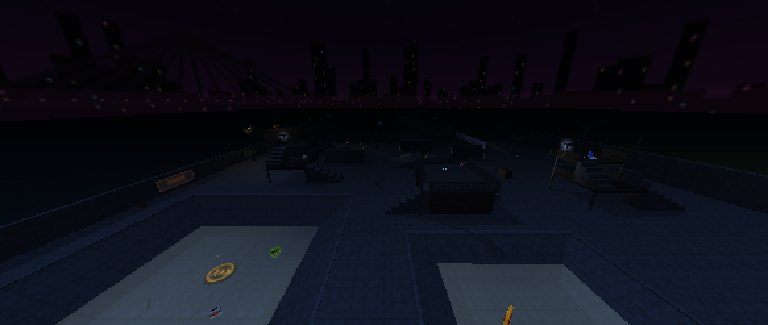
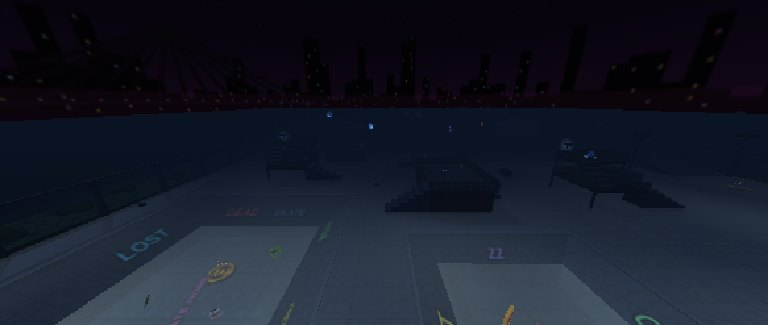
Skatenight: mucha mas niebla y estilo del render (graffitis, vallas, reflectores)
- Niebla azulada mas densa (fogD .042) y una capa de bruma baja; bruma de los bowls mas fuerte.
- Nuevo deco 'graf' (atlas, una sola malla): tags de colores en bowls, pirámides, muros y piso.
- Vallas de alambre al norte y sur (se ve el rio y la calle), reflectores de 4 cabezales en el perimetro,
  palets, rocas y juncos afuera. Se sacan los murales de concreto.

Claude-Session: https://claude.ai/code/session_01WFXnya9Taj999aui3Y62oH

diff --git a/public/game.js b/public/game.js
@@ -1293,11 +1293,18 @@ function buildSkatenight() {
   // baranda física de 1 m (se puede saltar, no se atraviesa); si es un tramo corto en x o en z se le da grosor solo
   const bar = (x0, z0, x1, z1, y) => add(Math.min(x0, x1), y, Math.min(z0, z1), Math.max(x0, x1) + (x0 === x1 ? .1 : 0), y + 1, Math.max(z0, z1) + (z0 === z1 ? .1 : 0), 'rail');
   const graf = (x, y, z, w, h, txt, fg, bg, ry) => deco.push({ t: 'cartel', x, y, z, w, h, txt, fg, bg: bg || '#1d1d22', ry: ry || 0 });
-  // reflector apagado (poste con cabezal negro) o encendido (cabezal con luz + brillo)
-  const poste = (x, z, on) => {
-    add(x - .12, 0, z - .12, x + .12, 7, z + .12, 'metal'); add(x - .5, 7, z - .25, x + .5, 7.5, z + .25, 'black', { nc: 1 });
-    if (on) { add(x - .4, 6.85, z - .2, x + .4, 7, z + .2, 'light', { nc: 1 }); deco.push({ t: 'glow', x, y: 6.8, z, c: 0xffc070 }); }
+  // reflector de estadio (4 cabezales): apagado casi siempre; y0 = altura del piso donde apoya
+  const poste = (x, z, on, y0) => {
+    y0 = y0 || 0; add(x - .12, y0, z - .12, x + .12, y0 + 6.8, z + .12, 'metal'); add(x - .95, y0 + 6.8, z - .1, x + .95, y0 + 6.95, z + .1, 'black', { nc: 1 });
+    for (const dx of [-.66, -.22, .22, .66]) { add(x + dx - .17, y0 + 6.95, z - .22, x + dx + .17, y0 + 7.4, z + .22, 'black', { nc: 1 }); if (on) add(x + dx - .13, y0 + 6.9, z - .16, x + dx + .13, y0 + 6.95, z + .16, 'light', { nc: 1 }); }
+    if (on) deco.push({ t: 'glow', x, y: y0 + 6.7, z, c: 0xffc070 });
   };
+  // graffitis (deco 'graf'): sobre rampas, piso y muros; en colores de aerosol, se ven bien solo con la linterna
+  const NEON = ['#ff3fd2', '#2be6ff', '#ffe03a', '#5dff7a', '#ff7a2a', '#b46cff', '#ff4a5a', '#4aa0ff']; let tn = 0;
+  const tag = (x, y, z, w, h, txt, rx, ry) => deco.push({ t: 'graf', x, y, z, w, h, txt, fg: NEON[(tn++) % NEON.length], rx, ry });
+  const flat = (x, z, y, w, h, txt, ry) => tag(x, y + .03, z, w, h, txt, -Math.PI / 2, ry || 0);                 // en el piso
+  const wallTag = (x, y, z, w, h, txt, ry) => tag(x, y, z, w, h, txt, 0, ry);                                    // en un muro vertical (ry: hacia dónde mira)
+  const slope = (cx, cy, cz, ry, alpha, w, h, txt) => { const hx = Math.sin(ry), hz = Math.cos(ry), sa = Math.sin(alpha), ca = Math.cos(alpha); tag(cx + hx * sa * .04, cy + ca * .04, cz + hz * sa * .04, w, h, txt, alpha - Math.PI / 2, ry); };   // sobre una rampa que mira hacia ry
   // palmera con tronco sólido (el tronco es invisible, la copa la dibuja la decoración)
   const palma = (x, z, h) => { deco.push({ t: 'palm', x, y: 0, z, h }); add(x - .25, 0, z - .25, x + .25, 4, z + .25, 'clip'); };
   // coronamiento (borde liso) de la boca de un bowl
@@ -1340,15 +1347,15 @@ function buildSkatenight() {
   ramp(-52, -4, -48, 12, -2, -2, 0, 'x', -1, 'concrete'); ramp(-38, -4, -34, 12, -2, -2, 0, 'x', 1, 'concrete');
   ramp(-52, -4, -34, 0, -2, -2, 0, 'z', -1, 'concrete'); ramp(-52, 8, -34, 12, -2, -2, 0, 'z', 1, 'concrete');
   coping(-52, -4, -34, 12);
-  deco.push({ t: 'bruma', x0: -56, x1: 56, z0: -36, z1: 52, y: .8, o: .16, dir: 1 }, { t: 'bruma', x0: -56, x1: 56, z0: -36, z1: 52, y: 3.4, o: .1, dir: -1 });
-  deco.push({ t: 'bruma', x0: -52, x1: -26, z0: -32, z1: -10, y: -2.3, o: .28, dir: 1 }, { t: 'bruma', x0: -52, x1: -34, z0: -4, z1: 12, y: -1.3, o: .26, dir: -1 });
+  deco.push({ t: 'bruma', x0: -56, x1: 56, z0: -36, z1: 52, y: .35, o: .3, dir: 1 });   // una sola capa baja (a la altura de las rodillas): más capas se ven como franjas
+  deco.push({ t: 'bruma', x0: -52, x1: -26, z0: -32, z1: -10, y: -2.3, o: .5, dir: 1 }, { t: 'bruma', x0: -52, x1: -34, z0: -4, z1: 12, y: -1.3, o: .46, dir: -1 });
 
   /* ---- límites: valla al oeste y al este, mural al sur y al norte-oeste, río al norte; todo cerrado por arriba y por los costados ---- */
   add(-56, 0, -36, -55.8, 4.2, 52, 'fence'); add(55.8, 0, -32, 56, 4.2, 52, 'fence');
   for (let z = -36; z <= 52; z += 6) { add(-56.1, 0, z, -55.8, 4.4, z + .3, 'metal'); if (z >= -32) add(55.8, 0, z, 56.1, 4.4, z + .3, 'metal'); }
   add(-56.1, 4.2, -36, -55.8, 4.4, 52, 'metal'); add(55.8, 4.2, -32, 56.1, 4.4, 52, 'metal');
-  add(-55.8, 0, 51, 55.8, 4, 52, 'concrete');                                    // mural sur
-  add(-55.8, 0, -36.5, -2, 2.6, -36, 'concrete');                                  // mural norte (del lado del río)
+  add(-55.8, 0, 51.7, 55.8, 4.2, 51.9, 'fence'); add(-55.8, 4.2, 51.6, 55.8, 4.4, 52, 'metal'); add(-55.8, 0, -36.2, -2, 4.2, -36, 'fence'); add(-55.8, 4.2, -36.3, -2, 4.4, -35.9, 'metal');   // vallas de alambre: al norte se ve el río, al sur la calle
+  for (let x = -55.8; x <= 55; x += 6) add(x, 0, 51.5, x + .3, 4.4, 52.1, 'metal'); for (let x = -55.8; x <= -2; x += 6) add(x, 0, -36.4, x + .3, 4.4, -35.8, 'metal');
   add(-60, -8, -44, -55.8, 60, 58, 'clip'); add(55.8, -8, -44, 60, 60, 58, 'clip'); add(-60, -8, -44, 60, 60, -36.2, 'clip');
   add(-60, -8, 52, 60, 60, 58, 'clip'); add(-60, 24, -44, 60, 60, 58, 'clip');     // techo del mapa: inalcanzable ni con rocket jump
   lava.push({ min: [-420, -4, -260], max: [420, 0, -36.6], water: true, dps: 0 });   // el Paraná, al otro lado del muro: solo se ve
@@ -1412,13 +1419,26 @@ function buildSkatenight() {
   add(-31.2, 2.7, -1.2, -21.8, 3, 6.2, 'roof'); stairs(-31, -6, -29, -1, 0, .5, 6, 'z', 1, 'concrete');
   bar(-29, -1.2, -21.8, -1.2, 3); bar(-31.2, -1.2, -31.2, 6.2, 3); bar(-31.2, 6.2, -21.8, 6.2, 3); bar(-21.8, -1.2, -21.8, 6.2, 3);
   deco.push({ t: 'cartel', x: -26.5, y: 2.5, z: -1.03, w: 3.2, h: .5, txt: 'KIOSCO 24 HS', bg: '#2a1c14', fg: '#a8844a', ry: Math.PI });
-  // murales (pintura sobre el muro, carteles apagados)
-  graf(-40, 1.2, 50.98, 6, 1.6, 'OXIDE', '#7a4a9a', '#1d1d22', Math.PI); graf(-14, 1.2, 50.98, 5, 1.6, 'SKATE', '#3a8a6a', '#1d1d22', Math.PI);
-  graf(12, 1.2, 50.98, 6, 1.6, 'LOST', '#9a7a3a', '#1d1d22', Math.PI); graf(42, 1.2, 50.98, 5, 1.6, 'CRAZE', '#9a3a5a', '#1d1d22', Math.PI);
-  graf(-46, 1.3, -35.98, 6, 1.6, 'FREE SKATE', '#4a7aa0', '#1d1d22', 0); graf(-24, 1.3, -35.98, 5, 1.6, 'OXIDE', '#a0502a', '#1d1d22', 0);
-  graf(-8, 1.3, -35.98, 3.4, 1.6, '720', '#8a8a3a', '#1d1d22', 0);
+  /* ---- graffitis: bowls, pirámides, muros y piso ---- */
+  const A1 = Math.atan2(3, 5), A2 = Math.atan2(2, 4), P = Math.PI;
+  for (const [x, txt] of [[-44, 'OXIDE'], [-34, 'LOST']]) slope(x, -1.5, -29.5, 0, A1, 4.6, 2.4, txt);
+  for (const [x, txt] of [[-42, 'FREE SKATE'], [-32, 'RISE']]) slope(x, -1.5, -12.5, P, A1, 4.6, 2.4, txt);
+  for (const [z, txt] of [[-24, '720'], [-18, 'CRAZE']]) slope(-49.5, -1.5, z, P / 2, A1, 4.6, 2.4, txt);
+  for (const [z, txt] of [[-24, 'DEAD'], [-18, 'SKATE']]) slope(-28.5, -1.5, z, -P / 2, A1, 4.6, 2.4, txt);
+  flat(-39, -21, -3, 7, 3.2, 'CKATE HOME', .3); flat(-45, -28, -3, 4, 2, 'XX', -.4);
+  slope(-43, -1, -2, 0, A2, 4.4, 2.2, 'LOST'); slope(-43, -1, 10, P, A2, 4.4, 2.2, 'OXIDE'); slope(-50, -1, 4, P / 2, A2, 4.4, 2.2, 'NOCHE'); slope(-36, -1, 4, -P / 2, A2, 3.6, 2, 'ZZ');
+  flat(-43, 3.5, -2, 5.5, 2.6, 'SKATE DIE', -.5);
+  slope(-12, .75, -2.5, P, Math.atan2(1.5, 4), 3.6, 1.6, 'RIDE'); slope(14, 1.2, -3.5, P, Math.atan2(2.4, 5), 5, 2.4, 'OXIDE'); slope(14, 1.2, 7.5, 0, Math.atan2(2.4, 5), 5, 2.4, 'LOST');
+  flat(-14, -26, 0, 6, 3, 'OXIDE', .2); flat(20, -14, 0, 5, 2.5, 'LOST', -.3); flat(38, 22, 0, 5, 2.5, 'RISE', .6); flat(-10, 40, 0, 6, 3, 'SKATE', 0); flat(-40, 30, 0, 5, 2.5, '720', .9); flat(46, 46, 0, 5, 2.5, 'CRAZE', -.5); flat(0, 6, 0, 5, 2, 'NO DIE', 1.2);
+  wallTag(-11.58, 1.5, -14, 5, 2, 'FREE SKATE', P / 2); wallTag(26, 1.5, -8.58, 5, 2, 'RISE', 0); wallTag(40.98, 1.5, 1, 5, 2, 'LOST', -P / 2); wallTag(-22, 1.5, 27.98, 5, 2, 'CRAZE', P);
+  wallTag(14, 1.5, 18.42, 5, 2, 'DEAD', 0); wallTag(-8.02, 1.5, 12.5, 5, 2, '720', -P / 2); wallTag(-1.58, 1.5, 2, 5, 2, 'OXIDE', P / 2);
+  // basura y escombros afuera de las vallas (solo se ven): palets y rocas
+  for (const [x, z] of [[-60, -20], [-61, 6], [-59, 30], [-26, 56], [14, 57], [44, 56], [60, 20], [61, -4]]) { add(x, 0, z, x + 1.4, .14, z + 1.1, 'wood', { nc: 1 }); add(x + .1, .14, z + .1, x + 1.3, .28, z + 1, 'wood', { nc: 1 }); add(x + 1.9, 0, z + .4, x + 2.6, .5, z + 1.1, 'rock', { nc: 1 }); }
+  // orilla del río al norte: banco de pasto con juncos
+  add(-58, -1, -44, -2, .3, -37.2, 'grass', { nc: 1 }); for (let x = -56; x <= -4; x += 5) deco.push({ t: 'bush', x, y: .3, z: -39.5 + (x % 3), r: .8 });
   // reflectores: casi todos apagados
-  for (const [x, z, on] of [[-54, -22, 0], [-50, 22, 1], [-10, -34, 1], [30, -18, 0], [52, -10, 0], [52, 34, 1], [-20, 34, 0], [20, 12, 1], [0, -8, 0], [36, 18, 0], [-31, -2, 0]]) poste(x, z, on);
+  for (const [x, z, on] of [[-54.2, -26, 0], [-54.2, -6, 0], [-54.2, 14, 0], [-54.2, 28, 1], [-54.2, 46, 0], [-40, 50.6, 0], [-20, 50.6, 0], [2, 50.6, 1], [24, 50.6, 0], [46, 50.6, 0], [54.6, -14, 0], [54.6, 6, 1], [54.6, 34, 0], [54.6, 46, 0], [0, -8, 0], [36, 18, 0], [-20, 34, 0], [30, -18, 0]]) poste(x, z, on);
+  for (const [x, on] of [[8, 0], [28, 1], [48, 0]]) poste(x, -35.5, on, 5);   // sobre el pasillo de la tribuna
 
   /* ---- portales: uno en el rincón sur-oeste y otro arriba de la tribuna ---- */
   teles.push({ x: -46, y: 0, z: 34, r: 1, to: [46.5, 5, -33.7], yaw: face(46.5, -33.7, 0, 0), color: 'yellow' });
@@ -1452,7 +1472,7 @@ function buildSkatenight() {
    [-40, -3, -20], [-34, -3, -24], [-43, -2, 3], [6, 5, -34], [20, 5, -34], [34, 5, -34], [26, 3, -26.6], [-17, 5, -21], [-25.5, 5, 21], [44.5, 5, 13], [45, 5, -10], [26, 2, 31], [14, 2.4, 2], [-12, 1.5, 2], [42, 2.5, 13], [-20, 2.5, -21], [20, 0, -28], [44, 0, -28], [8, 0, -27], [-26, 0, 3], [-26, 3, 4]]
     .forEach(([x, y, z]) => spawns.push({ x, y, z, yaw: face(x, z, 0, 0) }));
   /* ---- luces: unos pocos pozos de luz en la oscuridad (la linterna hace el resto) ---- */
-  lights.push({ x: -50, y: 6, z: 22, c: 0xffa860, i: .55, d: 20 }, { x: -10, y: 6, z: -34, c: 0xffa860, i: .55, d: 20 }, { x: 52, y: 6, z: 34, c: 0xffa860, i: .55, d: 20 }, { x: 20, y: 6, z: 12, c: 0xffa860, i: .55, d: 20 },
+  lights.push({ x: -53, y: 7, z: 28, c: 0xffa860, i: .6, d: 24 }, { x: 53.6, y: 7, z: 6, c: 0xffa860, i: .6, d: 24 }, { x: 2, y: 7, z: 49.6, c: 0xffa860, i: .6, d: 24 }, { x: 28, y: 12, z: -34.6, c: 0xffa860, i: .6, d: 24 },
     { x: -16.5, y: 6.3, z: -23.5, c: 0x6aa0ff, i: .4, d: 14 }, { x: -24.5, y: 6.3, z: 18.5, c: 0x6aa0ff, i: .4, d: 14 }, { x: 45.5, y: 6.3, z: 10.5, c: 0x6aa0ff, i: .4, d: 14 },
     { x: -46, y: 3, z: 34, c: 0xffc840, i: .9, d: 13 }, { x: 51, y: 8, z: -33.8, c: 0x4aa0ff, i: .9, d: 13 },
     { x: -24, y: 3, z: 46, c: 0x4a8a6a, i: .35, d: 14 }, { x: 36, y: 6, z: 48, c: 0xffa860, i: .5, d: 18 }, { x: -39, y: -1, z: -21, c: 0x4a8a6a, i: .35, d: 14 }, { x: -43, y: 0, z: 4, c: 0x8a4a8a, i: .35, d: 12 });
@@ -1470,7 +1490,7 @@ function buildSkatenight() {
   }
   for (const b of B) if (b.nc && b.mat !== 'clip') for (let k = 0; k < 3; k++) { b.min[k] -= .012; b.max[k] += .012; }   // evita caras coplanares (z-fighting)
   return finish({ id: 'skatenight', name: 'Skatenight', bounds: { x0: -56, x1: 56, z0: -40, z1: 54 }, deco, modos: ['arena', 'gungame'],
-    theme: { sky: 'night', tex: 'ut', noche: true, skyDim: .3, fog: 0x010204, fogD: .031, amb: 0x1a2440, ambI: .09, hemi: [0x20345c, 0x04060a, .08], sun: true, sunC: 0x5a78c0, sunI: .1, sunPos: [34, 60, -46], shadowRes: 4096, shBias: -.0004, shNormal: .08 } });
+    theme: { sky: 'night', tex: 'ut', noche: true, skyDim: .3, fog: 0x0b1424, fogD: .042, amb: 0x1a2440, ambI: .09, hemi: [0x20345c, 0x04060a, .08], sun: true, sunC: 0x5a78c0, sunI: .14, sunPos: [34, 60, -46], shadowRes: 4096, shBias: -.0004, shNormal: .08 } });
 }
 MAPDEFS.skatenight = buildSkatenight;
 const MAPS = {};

diff --git a/src/nucleo/02-mapas/7-skatenight.js b/src/nucleo/02-mapas/7-skatenight.js
@@ -13,11 +13,18 @@ function buildSkatenight() {
   // baranda física de 1 m (se puede saltar, no se atraviesa); si es un tramo corto en x o en z se le da grosor solo
   const bar = (x0, z0, x1, z1, y) => add(Math.min(x0, x1), y, Math.min(z0, z1), Math.max(x0, x1) + (x0 === x1 ? .1 : 0), y + 1, Math.max(z0, z1) + (z0 === z1 ? .1 : 0), 'rail');
   const graf = (x, y, z, w, h, txt, fg, bg, ry) => deco.push({ t: 'cartel', x, y, z, w, h, txt, fg, bg: bg || '#1d1d22', ry: ry || 0 });
-  // reflector apagado (poste con cabezal negro) o encendido (cabezal con luz + brillo)
-  const poste = (x, z, on) => {
-    add(x - .12, 0, z - .12, x + .12, 7, z + .12, 'metal'); add(x - .5, 7, z - .25, x + .5, 7.5, z + .25, 'black', { nc: 1 });
-    if (on) { add(x - .4, 6.85, z - .2, x + .4, 7, z + .2, 'light', { nc: 1 }); deco.push({ t: 'glow', x, y: 6.8, z, c: 0xffc070 }); }
+  // reflector de estadio (4 cabezales): apagado casi siempre; y0 = altura del piso donde apoya
+  const poste = (x, z, on, y0) => {
+    y0 = y0 || 0; add(x - .12, y0, z - .12, x + .12, y0 + 6.8, z + .12, 'metal'); add(x - .95, y0 + 6.8, z - .1, x + .95, y0 + 6.95, z + .1, 'black', { nc: 1 });
+    for (const dx of [-.66, -.22, .22, .66]) { add(x + dx - .17, y0 + 6.95, z - .22, x + dx + .17, y0 + 7.4, z + .22, 'black', { nc: 1 }); if (on) add(x + dx - .13, y0 + 6.9, z - .16, x + dx + .13, y0 + 6.95, z + .16, 'light', { nc: 1 }); }
+    if (on) deco.push({ t: 'glow', x, y: y0 + 6.7, z, c: 0xffc070 });
   };
+  // graffitis (deco 'graf'): sobre rampas, piso y muros; en colores de aerosol, se ven bien solo con la linterna
+  const NEON = ['#ff3fd2', '#2be6ff', '#ffe03a', '#5dff7a', '#ff7a2a', '#b46cff', '#ff4a5a', '#4aa0ff']; let tn = 0;
+  const tag = (x, y, z, w, h, txt, rx, ry) => deco.push({ t: 'graf', x, y, z, w, h, txt, fg: NEON[(tn++) % NEON.length], rx, ry });
+  const flat = (x, z, y, w, h, txt, ry) => tag(x, y + .03, z, w, h, txt, -Math.PI / 2, ry || 0);                 // en el piso
+  const wallTag = (x, y, z, w, h, txt, ry) => tag(x, y, z, w, h, txt, 0, ry);                                    // en un muro vertical (ry: hacia dónde mira)
+  const slope = (cx, cy, cz, ry, alpha, w, h, txt) => { const hx = Math.sin(ry), hz = Math.cos(ry), sa = Math.sin(alpha), ca = Math.cos(alpha); tag(cx + hx * sa * .04, cy + ca * .04, cz + hz * sa * .04, w, h, txt, alpha - Math.PI / 2, ry); };   // sobre una rampa que mira hacia ry
   // palmera con tronco sólido (el tronco es invisible, la copa la dibuja la decoración)
   const palma = (x, z, h) => { deco.push({ t: 'palm', x, y: 0, z, h }); add(x - .25, 0, z - .25, x + .25, 4, z + .25, 'clip'); };
   // coronamiento (borde liso) de la boca de un bowl
@@ -60,15 +67,15 @@ function buildSkatenight() {
   ramp(-52, -4, -48, 12, -2, -2, 0, 'x', -1, 'concrete'); ramp(-38, -4, -34, 12, -2, -2, 0, 'x', 1, 'concrete');
   ramp(-52, -4, -34, 0, -2, -2, 0, 'z', -1, 'concrete'); ramp(-52, 8, -34, 12, -2, -2, 0, 'z', 1, 'concrete');
   coping(-52, -4, -34, 12);
-  deco.push({ t: 'bruma', x0: -56, x1: 56, z0: -36, z1: 52, y: .8, o: .16, dir: 1 }, { t: 'bruma', x0: -56, x1: 56, z0: -36, z1: 52, y: 3.4, o: .1, dir: -1 });
-  deco.push({ t: 'bruma', x0: -52, x1: -26, z0: -32, z1: -10, y: -2.3, o: .28, dir: 1 }, { t: 'bruma', x0: -52, x1: -34, z0: -4, z1: 12, y: -1.3, o: .26, dir: -1 });
+  deco.push({ t: 'bruma', x0: -56, x1: 56, z0: -36, z1: 52, y: .35, o: .3, dir: 1 });   // una sola capa baja (a la altura de las rodillas): más capas se ven como franjas
+  deco.push({ t: 'bruma', x0: -52, x1: -26, z0: -32, z1: -10, y: -2.3, o: .5, dir: 1 }, { t: 'bruma', x0: -52, x1: -34, z0: -4, z1: 12, y: -1.3, o: .46, dir: -1 });
 
   /* ---- límites: valla al oeste y al este, mural al sur y al norte-oeste, río al norte; todo cerrado por arriba y por los costados ---- */
   add(-56, 0, -36, -55.8, 4.2, 52, 'fence'); add(55.8, 0, -32, 56, 4.2, 52, 'fence');
   for (let z = -36; z <= 52; z += 6) { add(-56.1, 0, z, -55.8, 4.4, z + .3, 'metal'); if (z >= -32) add(55.8, 0, z, 56.1, 4.4, z + .3, 'metal'); }
   add(-56.1, 4.2, -36, -55.8, 4.4, 52, 'metal'); add(55.8, 4.2, -32, 56.1, 4.4, 52, 'metal');
-  add(-55.8, 0, 51, 55.8, 4, 52, 'concrete');                                    // mural sur
-  add(-55.8, 0, -36.5, -2, 2.6, -36, 'concrete');                                  // mural norte (del lado del río)
+  add(-55.8, 0, 51.7, 55.8, 4.2, 51.9, 'fence'); add(-55.8, 4.2, 51.6, 55.8, 4.4, 52, 'metal'); add(-55.8, 0, -36.2, -2, 4.2, -36, 'fence'); add(-55.8, 4.2, -36.3, -2, 4.4, -35.9, 'metal');   // vallas de alambre: al norte se ve el río, al sur la calle
+  for (let x = -55.8; x <= 55; x += 6) add(x, 0, 51.5, x + .3, 4.4, 52.1, 'metal'); for (let x = -55.8; x <= -2; x += 6) add(x, 0, -36.4, x + .3, 4.4, -35.8, 'metal');
   add(-60, -8, -44, -55.8, 60, 58, 'clip'); add(55.8, -8, -44, 60, 60, 58, 'clip'); add(-60, -8, -44, 60, 60, -36.2, 'clip');
   add(-60, -8, 52, 60, 60, 58, 'clip'); add(-60, 24, -44, 60, 60, 58, 'clip');     // techo del mapa: inalcanzable ni con rocket jump
   lava.push({ min: [-420, -4, -260], max: [420, 0, -36.6], water: true, dps: 0 });   // el Paraná, al otro lado del muro: solo se ve
@@ -132,13 +139,26 @@ function buildSkatenight() {
   add(-31.2, 2.7, -1.2, -21.8, 3, 6.2, 'roof'); stairs(-31, -6, -29, -1, 0, .5, 6, 'z', 1, 'concrete');
   bar(-29, -1.2, -21.8, -1.2, 3); bar(-31.2, -1.2, -31.2, 6.2, 3); bar(-31.2, 6.2, -21.8, 6.2, 3); bar(-21.8, -1.2, -21.8, 6.2, 3);
   deco.push({ t: 'cartel', x: -26.5, y: 2.5, z: -1.03, w: 3.2, h: .5, txt: 'KIOSCO 24 HS', bg: '#2a1c14', fg: '#a8844a', ry: Math.PI });
-  // murales (pintura sobre el muro, carteles apagados)
-  graf(-40, 1.2, 50.98, 6, 1.6, 'OXIDE', '#7a4a9a', '#1d1d22', Math.PI); graf(-14, 1.2, 50.98, 5, 1.6, 'SKATE', '#3a8a6a', '#1d1d22', Math.PI);
-  graf(12, 1.2, 50.98, 6, 1.6, 'LOST', '#9a7a3a', '#1d1d22', Math.PI); graf(42, 1.2, 50.98, 5, 1.6, 'CRAZE', '#9a3a5a', '#1d1d22', Math.PI);
-  graf(-46, 1.3, -35.98, 6, 1.6, 'FREE SKATE', '#4a7aa0', '#1d1d22', 0); graf(-24, 1.3, -35.98, 5, 1.6, 'OXIDE', '#a0502a', '#1d1d22', 0);
-  graf(-8, 1.3, -35.98, 3.4, 1.6, '720', '#8a8a3a', '#1d1d22', 0);
+  /* ---- graffitis: bowls, pirámides, muros y piso ---- */
+  const A1 = Math.atan2(3, 5), A2 = Math.atan2(2, 4), P = Math.PI;
+  for (const [x, txt] of [[-44, 'OXIDE'], [-34, 'LOST']]) slope(x, -1.5, -29.5, 0, A1, 4.6, 2.4, txt);
+  for (const [x, txt] of [[-42, 'FREE SKATE'], [-32, 'RISE']]) slope(x, -1.5, -12.5, P, A1, 4.6, 2.4, txt);
+  for (const [z, txt] of [[-24, '720'], [-18, 'CRAZE']]) slope(-49.5, -1.5, z, P / 2, A1, 4.6, 2.4, txt);
+  for (const [z, txt] of [[-24, 'DEAD'], [-18, 'SKATE']]) slope(-28.5, -1.5, z, -P / 2, A1, 4.6, 2.4, txt);
+  flat(-39, -21, -3, 7, 3.2, 'CKATE HOME', .3); flat(-45, -28, -3, 4, 2, 'XX', -.4);
+  slope(-43, -1, -2, 0, A2, 4.4, 2.2, 'LOST'); slope(-43, -1, 10, P, A2, 4.4, 2.2, 'OXIDE'); slope(-50, -1, 4, P / 2, A2, 4.4, 2.2, 'NOCHE'); slope(-36, -1, 4, -P / 2, A2, 3.6, 2, 'ZZ');
+  flat(-43, 3.5, -2, 5.5, 2.6, 'SKATE DIE', -.5);
+  slope(-12, .75, -2.5, P, Math.atan2(1.5, 4), 3.6, 1.6, 'RIDE'); slope(14, 1.2, -3.5, P, Math.atan2(2.4, 5), 5, 2.4, 'OXIDE'); slope(14, 1.2, 7.5, 0, Math.atan2(2.4, 5), 5, 2.4, 'LOST');
+  flat(-14, -26, 0, 6, 3, 'OXIDE', .2); flat(20, -14, 0, 5, 2.5, 'LOST', -.3); flat(38, 22, 0, 5, 2.5, 'RISE', .6); flat(-10, 40, 0, 6, 3, 'SKATE', 0); flat(-40, 30, 0, 5, 2.5, '720', .9); flat(46, 46, 0, 5, 2.5, 'CRAZE', -.5); flat(0, 6, 0, 5, 2, 'NO DIE', 1.2);
+  wallTag(-11.58, 1.5, -14, 5, 2, 'FREE SKATE', P / 2); wallTag(26, 1.5, -8.58, 5, 2, 'RISE', 0); wallTag(40.98, 1.5, 1, 5, 2, 'LOST', -P / 2); wallTag(-22, 1.5, 27.98, 5, 2, 'CRAZE', P);
+  wallTag(14, 1.5, 18.42, 5, 2, 'DEAD', 0); wallTag(-8.02, 1.5, 12.5, 5, 2, '720', -P / 2); wallTag(-1.58, 1.5, 2, 5, 2, 'OXIDE', P / 2);
+  // basura y escombros afuera de las vallas (solo se ven): palets y rocas
+  for (const [x, z] of [[-60, -20], [-61, 6], [-59, 30], [-26, 56], [14, 57], [44, 56], [60, 20], [61, -4]]) { add(x, 0, z, x + 1.4, .14, z + 1.1, 'wood', { nc: 1 }); add(x + .1, .14, z + .1, x + 1.3, .28, z + 1, 'wood', { nc: 1 }); add(x + 1.9, 0, z + .4, x + 2.6, .5, z + 1.1, 'rock', { nc: 1 }); }
+  // orilla del río al norte: banco de pasto con juncos
+  add(-58, -1, -44, -2, .3, -37.2, 'grass', { nc: 1 }); for (let x = -56; x <= -4; x += 5) deco.push({ t: 'bush', x, y: .3, z: -39.5 + (x % 3), r: .8 });
   // reflectores: casi todos apagados
-  for (const [x, z, on] of [[-54, -22, 0], [-50, 22, 1], [-10, -34, 1], [30, -18, 0], [52, -10, 0], [52, 34, 1], [-20, 34, 0], [20, 12, 1], [0, -8, 0], [36, 18, 0], [-31, -2, 0]]) poste(x, z, on);
+  for (const [x, z, on] of [[-54.2, -26, 0], [-54.2, -6, 0], [-54.2, 14, 0], [-54.2, 28, 1], [-54.2, 46, 0], [-40, 50.6, 0], [-20, 50.6, 0], [2, 50.6, 1], [24, 50.6, 0], [46, 50.6, 0], [54.6, -14, 0], [54.6, 6, 1], [54.6, 34, 0], [54.6, 46, 0], [0, -8, 0], [36, 18, 0], [-20, 34, 0], [30, -18, 0]]) poste(x, z, on);
+  for (const [x, on] of [[8, 0], [28, 1], [48, 0]]) poste(x, -35.5, on, 5);   // sobre el pasillo de la tribuna
 
   /* ---- portales: uno en el rincón sur-oeste y otro arriba de la tribuna ---- */
   teles.push({ x: -46, y: 0, z: 34, r: 1, to: [46.5, 5, -33.7], yaw: face(46.5, -33.7, 0, 0), color: 'yellow' });
@@ -172,7 +192,7 @@ function buildSkatenight() {
    [-40, -3, -20], [-34, -3, -24], [-43, -2, 3], [6, 5, -34], [20, 5, -34], [34, 5, -34], [26, 3, -26.6], [-17, 5, -21], [-25.5, 5, 21], [44.5, 5, 13], [45, 5, -10], [26, 2, 31], [14, 2.4, 2], [-12, 1.5, 2], [42, 2.5, 13], [-20, 2.5, -21], [20, 0, -28], [44, 0, -28], [8, 0, -27], [-26, 0, 3], [-26, 3, 4]]
     .forEach(([x, y, z]) => spawns.push({ x, y, z, yaw: face(x, z, 0, 0) }));
   /* ---- luces: unos pocos pozos de luz en la oscuridad (la linterna hace el resto) ---- */
-  lights.push({ x: -50, y: 6, z: 22, c: 0xffa860, i: .55, d: 20 }, { x: -10, y: 6, z: -34, c: 0xffa860, i: .55, d: 20 }, { x: 52, y: 6, z: 34, c: 0xffa860, i: .55, d: 20 }, { x: 20, y: 6, z: 12, c: 0xffa860, i: .55, d: 20 },
+  lights.push({ x: -53, y: 7, z: 28, c: 0xffa860, i: .6, d: 24 }, { x: 53.6, y: 7, z: 6, c: 0xffa860, i: .6, d: 24 }, { x: 2, y: 7, z: 49.6, c: 0xffa860, i: .6, d: 24 }, { x: 28, y: 12, z: -34.6, c: 0xffa860, i: .6, d: 24 },
     { x: -16.5, y: 6.3, z: -23.5, c: 0x6aa0ff, i: .4, d: 14 }, { x: -24.5, y: 6.3, z: 18.5, c: 0x6aa0ff, i: .4, d: 14 }, { x: 45.5, y: 6.3, z: 10.5, c: 0x6aa0ff, i: .4, d: 14 },
     { x: -46, y: 3, z: 34, c: 0xffc840, i: .9, d: 13 }, { x: 51, y: 8, z: -33.8, c: 0x4aa0ff, i: .9, d: 13 },
     { x: -24, y: 3, z: 46, c: 0x4a8a6a, i: .35, d: 14 }, { x: 36, y: 6, z: 48, c: 0xffa860, i: .5, d: 18 }, { x: -39, y: -1, z: -21, c: 0x4a8a6a, i: .35, d: 14 }, { x: -43, y: 0, z: 4, c: 0x8a4a8a, i: .35, d: 12 });
@@ -190,6 +210,6 @@ function buildSkatenight() {
   }
   for (const b of B) if (b.nc && b.mat !== 'clip') for (let k = 0; k < 3; k++) { b.min[k] -= .012; b.max[k] += .012; }   // evita caras coplanares (z-fighting)
   return finish({ id: 'skatenight', name: 'Skatenight', bounds: { x0: -56, x1: 56, z0: -40, z1: 54 }, deco, modos: ['arena', 'gungame'],
-    theme: { sky: 'night', tex: 'ut', noche: true, skyDim: .3, fog: 0x010204, fogD: .031, amb: 0x1a2440, ambI: .09, hemi: [0x20345c, 0x04060a, .08], sun: true, sunC: 0x5a78c0, sunI: .1, sunPos: [34, 60, -46], shadowRes: 4096, shBias: -.0004, shNormal: .08 } });
+    theme: { sky: 'night', tex: 'ut', noche: true, skyDim: .3, fog: 0x0b1424, fogD: .042, amb: 0x1a2440, ambI: .09, hemi: [0x20345c, 0x04060a, .08], sun: true, sunC: 0x5a78c0, sunI: .14, sunPos: [34, 60, -46], shadowRes: 4096, shBias: -.0004, shNormal: .08 } });
 }
 MAPDEFS.skatenight = buildSkatenight;

diff --git a/public/index.html b/public/index.html
@@ -1031,7 +1031,7 @@ function buildDeco(group,list){
   const bake=(g,x,y,z,ry,rx)=>{const o=new THREE.Object3D();o.position.set(x,y,z);o.rotation.set(0,ry||0,0);if(rx)o.rotateX(rx);o.updateMatrix();g.applyMatrix4(o.matrix);return g;};
   const vTr=[],vLf=[],vBu=[],vCo=[],vAv=[];
   portalAnim.length=0;animTex.length=0;
-  const vGl=[],vHz=[],vVn=[];   // brillos de farolas, haces de luz y enredaderas: una sola malla por tipo
+  const vGl=[],vHz=[],vVn=[],vGf=[];   // brillos de farolas, haces de luz y enredaderas: una sola malla por tipo
   for(const d of list){
     if(d.t==='palm'){
       const tg=new THREE.CylinderGeometry(.2,.32,d.h,8);tg.rotateZ(.05);tg.translate(d.x,d.y+d.h/2,d.z);vTr.push(tg);
@@ -1112,6 +1112,8 @@ function buildDeco(group,list){
       for(const [list,m] of [[negro,mat('tr_negro',{color:0x1a1c20,shininess:50})],[acero,mat('tr_acero',{color:0x3a4148,shininess:90})],[laton,mat('tr_laton',{color:0xb58a3c,shininess:110,emissive:0x2a1c08})],[rojo,mat('tr_rojo',{color:0x9a1f18,shininess:30})]]){
         const me=new THREE.Mesh(unir(list),m);me.castShadow=true;me.receiveShadow=true;group.add(me);}
       group.add(new THREE.Mesh(unir(luz),M_('tr_luz',()=>new THREE.MeshBasicMaterial({color:0xfff0c8}))));
+    }else if(d.t==='graf'){
+      vGf.push(d);   // graffiti (tag de aerosol): todos juntos en un atlas, ver abajo
     }else if(d.t==='cartel'){
       // cartel de chapa con letras (estación, andén): d.txt, colores d.bg / d.fg
       const c=cv(512,Math.round(512*d.h/d.w),(g,w,h)=>{
@@ -1179,6 +1181,31 @@ function buildDeco(group,list){
   }
   const volcar=(arr,mat)=>{if(!arr.length)return;const m=new THREE.Mesh(unir(arr),mat);group.add(m);};
   volcar(vTr,trunk);volcar(vLf,leaf);volcar(vBu,bushM);
+  if(vGf.length){
+    // graffitis: cada uno es un cuadrito del atlas; una sola malla y un solo dibujo. Se iluminan con la linterna (con un brillo propio apenas)
+    const cols=8,cw=256,chh=128,rows=Math.ceil(vGf.length/cols);
+    const atlas=cv(cols*cw,rows*chh,(g)=>{vGf.forEach((d,i)=>{
+      const cx=(i%cols)*cw,cy=Math.floor(i/cols)*chh;let sz=84;g.font='italic 900 '+sz+'px "Arial Black",Impact,sans-serif';
+      while(g.measureText(d.txt).width>cw*.9&&sz>16){sz-=4;g.font='italic 900 '+sz+'px "Arial Black",Impact,sans-serif';}
+      g.textAlign='center';g.textBaseline='middle';g.lineJoin='round';g.lineWidth=sz*.18;g.strokeStyle='#08080e';g.strokeText(d.txt,cx+cw/2,cy+chh/2-6);
+      g.fillStyle=d.fg||'#ff3fd2';g.fillText(d.txt,cx+cw/2,cy+chh/2-6);
+      g.fillStyle='rgba(255,255,255,.28)';g.fillText(d.txt,cx+cw/2-2,cy+chh/2-9);
+      g.fillStyle=d.fg||'#ff3fd2';for(let k=0;k<3;k++){const x=cx+cw*(.25+k*.25)+((i*7+k*13)%11)-5;g.fillRect(x,cy+chh/2+sz*.3,3,6+((i*5+k*9)%22));}   // chorreaduras
+    });});
+    const tex=new THREE.CanvasTexture(atlas);
+    const P=[],N=[],U=[],X=[],q=new THREE.Quaternion(),e=new THREE.Euler(0,0,0,'YXZ'),v=new THREE.Vector3();
+    vGf.forEach((d,i)=>{
+      e.set(d.rx||0,d.ry||0,d.rz||0);q.setFromEuler(e);const u0=(i%cols)/cols,v1=1-Math.floor(i/cols)/rows,base=P.length/3;
+      for(const [lx,ly,uu,vv] of [[-1,-1,0,0],[1,-1,1,0],[1,1,1,1],[-1,1,0,1]]){
+        v.set(lx*d.w/2,ly*d.h/2,0).applyQuaternion(q);P.push(d.x+v.x,d.y+v.y,d.z+v.z);
+        v.set(0,0,1).applyQuaternion(q);N.push(v.x,v.y,v.z);U.push(u0+uu/cols,v1-(1-vv)/rows);
+      }
+      X.push(base,base+1,base+2,base,base+2,base+3);
+    });
+    const gg=new THREE.BufferGeometry();gg.setAttribute('position',new THREE.Float32BufferAttribute(P,3));gg.setAttribute('normal',new THREE.Float32BufferAttribute(N,3));gg.setAttribute('uv',new THREE.Float32BufferAttribute(U,2));gg.setIndex(X);
+    const gm=new THREE.Mesh(gg,new THREE.MeshPhongMaterial({map:tex,transparent:true,depthWrite:false,polygonOffset:true,polygonOffsetFactor:-3,polygonOffsetUnits:-3,shininess:0,emissive:0x555555,emissiveMap:tex}));
+    gm.renderOrder=1;gm.frustumCulled=false;group.add(gm);
+  }
   if(vVn.length)volcar(vVn,M_('vid',()=>new THREE.MeshLambertMaterial({map:new THREE.CanvasTexture(cv(32,128,(g,w,h)=>{g.clearRect(0,0,w,h);g.strokeStyle='#1d3a22';g.lineWidth=2;g.beginPath();g.moveTo(16,0);for(let y=0;y<h;y+=8)g.lineTo(16+Math.sin(y*.13)*5,y);g.stroke();
     for(let y=6;y<h;y+=7){const x=16+Math.sin(y*.13)*5,s=y%14?1:-1;g.fillStyle=(y%3)?'#2c5a30':'#1f4426';g.beginPath();g.ellipse(x+s*5,y,5,2.6,s*.5,0,7);g.fill();}})),transparent:true,alphaTest:.4,side:THREE.DoubleSide})));
   if(vGl.length){const pos=[],col=[];for(const q of vGl){const c=new THREE.Color(q.c||0xffd08a);pos.push(q.x,q.y,q.z);col.push(c.r,c.g,c.b);}

diff --git a/src/cliente/js/03-decoracion.js b/src/cliente/js/03-decoracion.js
@@ -24,7 +24,7 @@ function buildDeco(group,list){
   const bake=(g,x,y,z,ry,rx)=>{const o=new THREE.Object3D();o.position.set(x,y,z);o.rotation.set(0,ry||0,0);if(rx)o.rotateX(rx);o.updateMatrix();g.applyMatrix4(o.matrix);return g;};
   const vTr=[],vLf=[],vBu=[],vCo=[],vAv=[];
   portalAnim.length=0;animTex.length=0;
-  const vGl=[],vHz=[],vVn=[];   // brillos de farolas, haces de luz y enredaderas: una sola malla por tipo
+  const vGl=[],vHz=[],vVn=[],vGf=[];   // brillos de farolas, haces de luz y enredaderas: una sola malla por tipo
   for(const d of list){
     if(d.t==='palm'){
       const tg=new THREE.CylinderGeometry(.2,.32,d.h,8);tg.rotateZ(.05);tg.translate(d.x,d.y+d.h/2,d.z);vTr.push(tg);
@@ -105,6 +105,8 @@ function buildDeco(group,list){
       for(const [list,m] of [[negro,mat('tr_negro',{color:0x1a1c20,shininess:50})],[acero,mat('tr_acero',{color:0x3a4148,shininess:90})],[laton,mat('tr_laton',{color:0xb58a3c,shininess:110,emissive:0x2a1c08})],[rojo,mat('tr_rojo',{color:0x9a1f18,shininess:30})]]){
         const me=new THREE.Mesh(unir(list),m);me.castShadow=true;me.receiveShadow=true;group.add(me);}
       group.add(new THREE.Mesh(unir(luz),M_('tr_luz',()=>new THREE.MeshBasicMaterial({color:0xfff0c8}))));
+    }else if(d.t==='graf'){
+      vGf.push(d);   // graffiti (tag de aerosol): todos juntos en un atlas, ver abajo
     }else if(d.t==='cartel'){
       // cartel de chapa con letras (estación, andén): d.txt, colores d.bg / d.fg
       const c=cv(512,Math.round(512*d.h/d.w),(g,w,h)=>{
@@ -172,6 +174,31 @@ function buildDeco(group,list){
   }
   const volcar=(arr,mat)=>{if(!arr.length)return;const m=new THREE.Mesh(unir(arr),mat);group.add(m);};
   volcar(vTr,trunk);volcar(vLf,leaf);volcar(vBu,bushM);
+  if(vGf.length){
+    // graffitis: cada uno es un cuadrito del atlas; una sola malla y un solo dibujo. Se iluminan con la linterna (con un brillo propio apenas)
+    const cols=8,cw=256,chh=128,rows=Math.ceil(vGf.length/cols);
+    const atlas=cv(cols*cw,rows*chh,(g)=>{vGf.forEach((d,i)=>{
+      const cx=(i%cols)*cw,cy=Math.floor(i/cols)*chh;let sz=84;g.font='italic 900 '+sz+'px "Arial Black",Impact,sans-serif';
+      while(g.measureText(d.txt).width>cw*.9&&sz>16){sz-=4;g.font='italic 900 '+sz+'px "Arial Black",Impact,sans-serif';}
+      g.textAlign='center';g.textBaseline='middle';g.lineJoin='round';g.lineWidth=sz*.18;g.strokeStyle='#08080e';g.strokeText(d.txt,cx+cw/2,cy+chh/2-6);
+      g.fillStyle=d.fg||'#ff3fd2';g.fillText(d.txt,cx+cw/2,cy+chh/2-6);
+      g.fillStyle='rgba(255,255,255,.28)';g.fillText(d.txt,cx+cw/2-2,cy+chh/2-9);
+      g.fillStyle=d.fg||'#ff3fd2';for(let k=0;k<3;k++){const x=cx+cw*(.25+k*.25)+((i*7+k*13)%11)-5;g.fillRect(x,cy+chh/2+sz*.3,3,6+((i*5+k*9)%22));}   // chorreaduras
+    });});
+    const tex=new THREE.CanvasTexture(atlas);
+    const P=[],N=[],U=[],X=[],q=new THREE.Quaternion(),e=new THREE.Euler(0,0,0,'YXZ'),v=new THREE.Vector3();
+    vGf.forEach((d,i)=>{
+      e.set(d.rx||0,d.ry||0,d.rz||0);q.setFromEuler(e);const u0=(i%cols)/cols,v1=1-Math.floor(i/cols)/rows,base=P.length/3;
+      for(const [lx,ly,uu,vv] of [[-1,-1,0,0],[1,-1,1,0],[1,1,1,1],[-1,1,0,1]]){
+        v.set(lx*d.w/2,ly*d.h/2,0).applyQuaternion(q);P.push(d.x+v.x,d.y+v.y,d.z+v.z);
+        v.set(0,0,1).applyQuaternion(q);N.push(v.x,v.y,v.z);U.push(u0+uu/cols,v1-(1-vv)/rows);
+      }
+      X.push(base,base+1,base+2,base,base+2,base+3);
+    });
+    const gg=new THREE.BufferGeometry();gg.setAttribute('position',new THREE.Float32BufferAttribute(P,3));gg.setAttribute('normal',new THREE.Float32BufferAttribute(N,3));gg.setAttribute('uv',new THREE.Float32BufferAttribute(U,2));gg.setIndex(X);
+    const gm=new THREE.Mesh(gg,new THREE.MeshPhongMaterial({map:tex,transparent:true,depthWrite:false,polygonOffset:true,polygonOffsetFactor:-3,polygonOffsetUnits:-3,shininess:0,emissive:0x555555,emissiveMap:tex}));
+    gm.renderOrder=1;gm.frustumCulled=false;group.add(gm);
+  }
   if(vVn.length)volcar(vVn,M_('vid',()=>new THREE.MeshLambertMaterial({map:new THREE.CanvasTexture(cv(32,128,(g,w,h)=>{g.clearRect(0,0,w,h);g.strokeStyle='#1d3a22';g.lineWidth=2;g.beginPath();g.moveTo(16,0);for(let y=0;y<h;y+=8)g.lineTo(16+Math.sin(y*.13)*5,y);g.stroke();
     for(let y=6;y<h;y+=7){const x=16+Math.sin(y*.13)*5,s=y%14?1:-1;g.fillStyle=(y%3)?'#2c5a30':'#1f4426';g.beginPath();g.ellipse(x+s*5,y,5,2.6,s*.5,0,7);g.fill();}})),transparent:true,alphaTest:.4,side:THREE.DoubleSide})));
   if(vGl.length){const pos=[],col=[];for(const q of vGl){const c=new THREE.Color(q.c||0xffd08a);pos.push(q.x,q.y,q.z);col.push(c.r,c.g,c.b);}

diff --git a/README.md b/README.md
@@ -289,12 +289,13 @@ Inspirado en el cuarto tramo de la Costanera de Posadas, **al atardecer** (cielo
 
 ## Skatenight (mapa nuevo, de noche)
 
-Inspirado en el **skatepark de la Costanera de Posadas**, pero de **noche cerrada**: casi todo está a oscuras (cielo, ambiente y reflectores apagados), con apenas luz de luna, **niebla espesa** (a unos 40 m ya se pierde la vista) con bruma baja sobre toda la plaza y la ciudad (con el puente a Encarnación) de fondo. Sin linterna no se ve casi nada. Se juega en **Arena** y **Gungame**. Es un mapa grande (unos 112 × 94 m) hecho para moverse, con varios niveles.
+Inspirado en el **skatepark de la Costanera de Posadas**, pero de **noche cerrada**: casi todo está a oscuras (cielo, ambiente y reflectores apagados), con apenas luz de luna, **niebla azulada muy espesa** (a unos 25-30 m ya se pierde la vista) con bruma baja sobre toda la plaza y la ciudad (con el puente a Encarnación) de fondo. Sin linterna no se ve casi nada. Se juega en **Arena** y **Gungame**. Es un mapa grande (unos 112 × 94 m) hecho para moverse, con varios niveles.
 - **Linterna en cada arma (solo en este mapa):** las 11 armas llevan una linterna pegada al costado del caño (se ve en pantalla) con un foco real: alumbrás lo que apuntás y el resto queda en penumbra. A los rivales los ves por **su haz de luz y el brillo del lente**, que pega fuerte cuando te apuntan a vos; el visor y el pecho de los jugadores se apagan (solo se ven si están a menos de 5 m o los alumbrás) y el nombre aparece solo si los alumbrás. Los dos rivales más cercanos alumbran de verdad el escenario. Los bots ven hasta 30 m. (Con las luces en calidad baja solo anda tu linterna.)
 - **Plaza de concreto** con **dos bowls hundidos** al oeste (-3 y -2 m, con coronamiento y bruma), tres **pirámides** (1,5 y 2,4 m), una caja de *bank to ledge* con el cartel «PROHIBIDO NIÑOS ZOMBIES», un **bank con terraza** contra la valla del este y la **plataforma sur** (2 m) con escalera y rampa.
 - **Tribuna** de 10 gradas al norte (sube hasta 5 m), con pasillo y baranda sobre el río. Poste de luz con transformador, murales, palmeras y autos en la calle.
 - **Tres torres de andamio** (pisos a 2,5 y 5 m) unidas por **pasarelas a 5 m**: una L desde la torre noroeste hasta la tribuna y otra de la tribuna a la torre este.
 - **Escondites y juego rápido:** debajo de la tribuna hay una **galería oscura** (7 m de fondo, con pilares y botín) a la que se entra por el oeste o por dos pasos en las gradas; un **kiosko con techo** (3 m, se sube por una escalera de afuera) con puertas al norte, sur y este; **8 muros de 3 m** que cortan la línea de tiro de la plaza; y un **ascensor** que lleva en segundos de la plaza a la pasarela de la tribuna (5 m), con una luz cyan en el costado.
+- **Estilo del render original:** graffitis de colores de aerosol (OXIDE, LOST, 720…) sobre las rampas de los bowls, las pirámides, los muros y el piso, que casi solo se ven con la linterna; vallas de alambre al norte (con el río a la vista) y al sur (con la calle); reflectores de estadio de cuatro cabezales en todo el perímetro (casi todos apagados, unos pocos prendidos); palets, rocas y juncos afuera.
 - **Zona sur** (14 m más): una **media caña** al oeste, una escalera con terraza al medio y muros de cobertura.
 - **Cinco saltadores** (media caña → torre sudoeste, bowl grande → torre noroeste, bowl chico → torre sudoeste, plaza → tribuna, plaza → torre este) y **dos portales** lejísimos entre sí: amarillo en el rincón sudoeste, azul arriba de la tribuna.
 - **Daño triple** en la pasarela este, **megasalud** en lo alto de la torre sudoeste y tres armaduras pesadas (pasillo de la tribuna, bowl chico y debajo del cartel).
